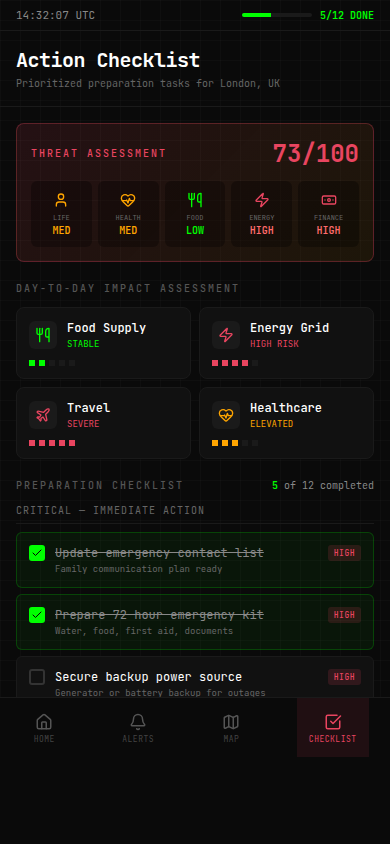
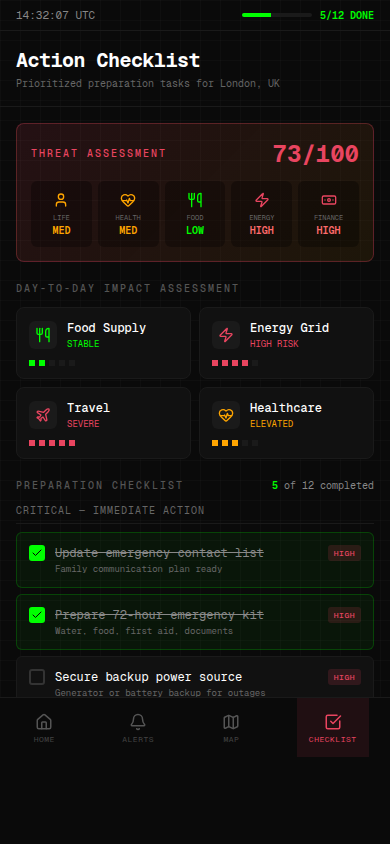
Switch to Geist Mono font

diff --git a/mockups-v4/screen-red-line-alert.html b/mockups-v4/screen-red-line-alert.html
@@ -6,7 +6,7 @@
     <title>Red Line Alert - Pronoia</title>
     <script src="https://unpkg.com/lucide@latest/dist/umd/lucide.min.js"></script>
     <style>
-        @import url('https://fonts.googleapis.com/css2?family=JetBrains+Mono:wght@300;400;500;600;700&display=swap');
+        @import url('https://fonts.googleapis.com/css2?family=Geist+Mono:wght@400;500;600;700&display=swap');
         
         * {
             margin: 0;
@@ -25,7 +25,7 @@
         
         body {
             width: 390px !important;
-            font-family: 'JetBrains Mono', monospace;
+            font-family: 'Geist Mono', monospace;
             background: #0a0a0a;
             color: #ffffff;
             min-height: 100vh;
@@ -345,7 +345,7 @@
             border: none;
             border-radius: 8px;
             color: #fff;
-            font-family: 'JetBrains Mono', monospace;
+            font-family: 'Geist Mono', monospace;
             font-size: 11px;
             font-weight: 600;
             text-transform: uppercase;
@@ -378,7 +378,7 @@
             border: 1px solid #333;
             border-radius: 6px;
             color: #888;
-            font-family: 'JetBrains Mono', monospace;
+            font-family: 'Geist Mono', monospace;
             font-size: 9px;
             text-transform: uppercase;
             cursor: pointer;

diff --git a/mockups-v4/screen-escalation-map.html b/mockups-v4/screen-escalation-map.html
@@ -6,7 +6,7 @@
     <title>Escalation Map - Pronoia</title>
     <script src="https://unpkg.com/lucide@latest/dist/umd/lucide.min.js"></script>
     <style>
-        @import url('https://fonts.googleapis.com/css2?family=JetBrains+Mono:wght@300;400;500;600;700&display=swap');
+        @import url('https://fonts.googleapis.com/css2?family=Geist+Mono:wght@400;500;600;700&display=swap');
         
         * {
             margin: 0;
@@ -25,7 +25,7 @@
         
         body {
             width: 390px !important;
-            font-family: 'JetBrains Mono', monospace;
+            font-family: 'Geist Mono', monospace;
             background: #0a0a0a;
             color: #ffffff;
             min-height: 100vh;
@@ -192,7 +192,7 @@
         }
         
         .map-label {
-            font-family: 'JetBrains Mono', monospace;
+            font-family: 'Geist Mono', monospace;
             font-size: 7px;
             fill: #555;
             text-anchor: middle;
@@ -203,7 +203,7 @@
         .map-label.warning { fill: #FFA500; }
         
         .coord-label {
-            font-family: 'JetBrains Mono', monospace;
+            font-family: 'Geist Mono', monospace;
             font-size: 6px;
             fill: #333;
         }

diff --git a/mockups-v4/screen-historical-parallels.html b/mockups-v4/screen-historical-parallels.html
@@ -6,7 +6,7 @@
     <title>Historical Parallels - Pronoia</title>
     <script src="https://unpkg.com/lucide@latest/dist/umd/lucide.min.js"></script>
     <style>
-        @import url('https://fonts.googleapis.com/css2?family=JetBrains+Mono:wght@300;400;500;600;700&display=swap');
+        @import url('https://fonts.googleapis.com/css2?family=Geist+Mono:wght@400;500;600;700&display=swap');
         
         * {
             margin: 0;
@@ -25,7 +25,7 @@
         
         body {
             width: 390px !important;
-            font-family: 'JetBrains Mono', monospace;
+            font-family: 'Geist Mono', monospace;
             background: #0a0a0a;
             color: #ffffff;
             min-height: 100vh;

diff --git a/mockups-v4/screen-action-checklist.html b/mockups-v4/screen-action-checklist.html
@@ -6,7 +6,7 @@
     <title>Action Checklist - Pronoia</title>
     <script src="https://unpkg.com/lucide@latest/dist/umd/lucide.min.js"></script>
     <style>
-        @import url('https://fonts.googleapis.com/css2?family=JetBrains+Mono:wght@300;400;500;600;700&display=swap');
+        @import url('https://fonts.googleapis.com/css2?family=Geist+Mono:wght@400;500;600;700&display=swap');
         
         * {
             margin: 0;
@@ -25,7 +25,7 @@
         
         body {
             width: 390px !important;
-            font-family: 'JetBrains Mono', monospace;
+            font-family: 'Geist Mono', monospace;
             background: #0a0a0a;
             color: #ffffff;
             min-height: 100vh;

diff --git a/mockups-v4/screen-risk-score.html b/mockups-v4/screen-risk-score.html
@@ -6,7 +6,7 @@
     <title>Risk Score - Pronoia</title>
     <script src="https://unpkg.com/lucide@latest/dist/umd/lucide.min.js"></script>
     <style>
-        @import url('https://fonts.googleapis.com/css2?family=JetBrains+Mono:wght@300;400;500;600;700&display=swap');
+        @import url('https://fonts.googleapis.com/css2?family=Geist+Mono:wght@400;500;600;700&display=swap');
         
         * {
             margin: 0;
@@ -25,7 +25,7 @@
         
         body {
             width: 390px !important;
-            font-family: 'JetBrains Mono', monospace;
+            font-family: 'Geist Mono', monospace;
             background: #0a0a0a;
             color: #ffffff;
             min-height: 100vh;
